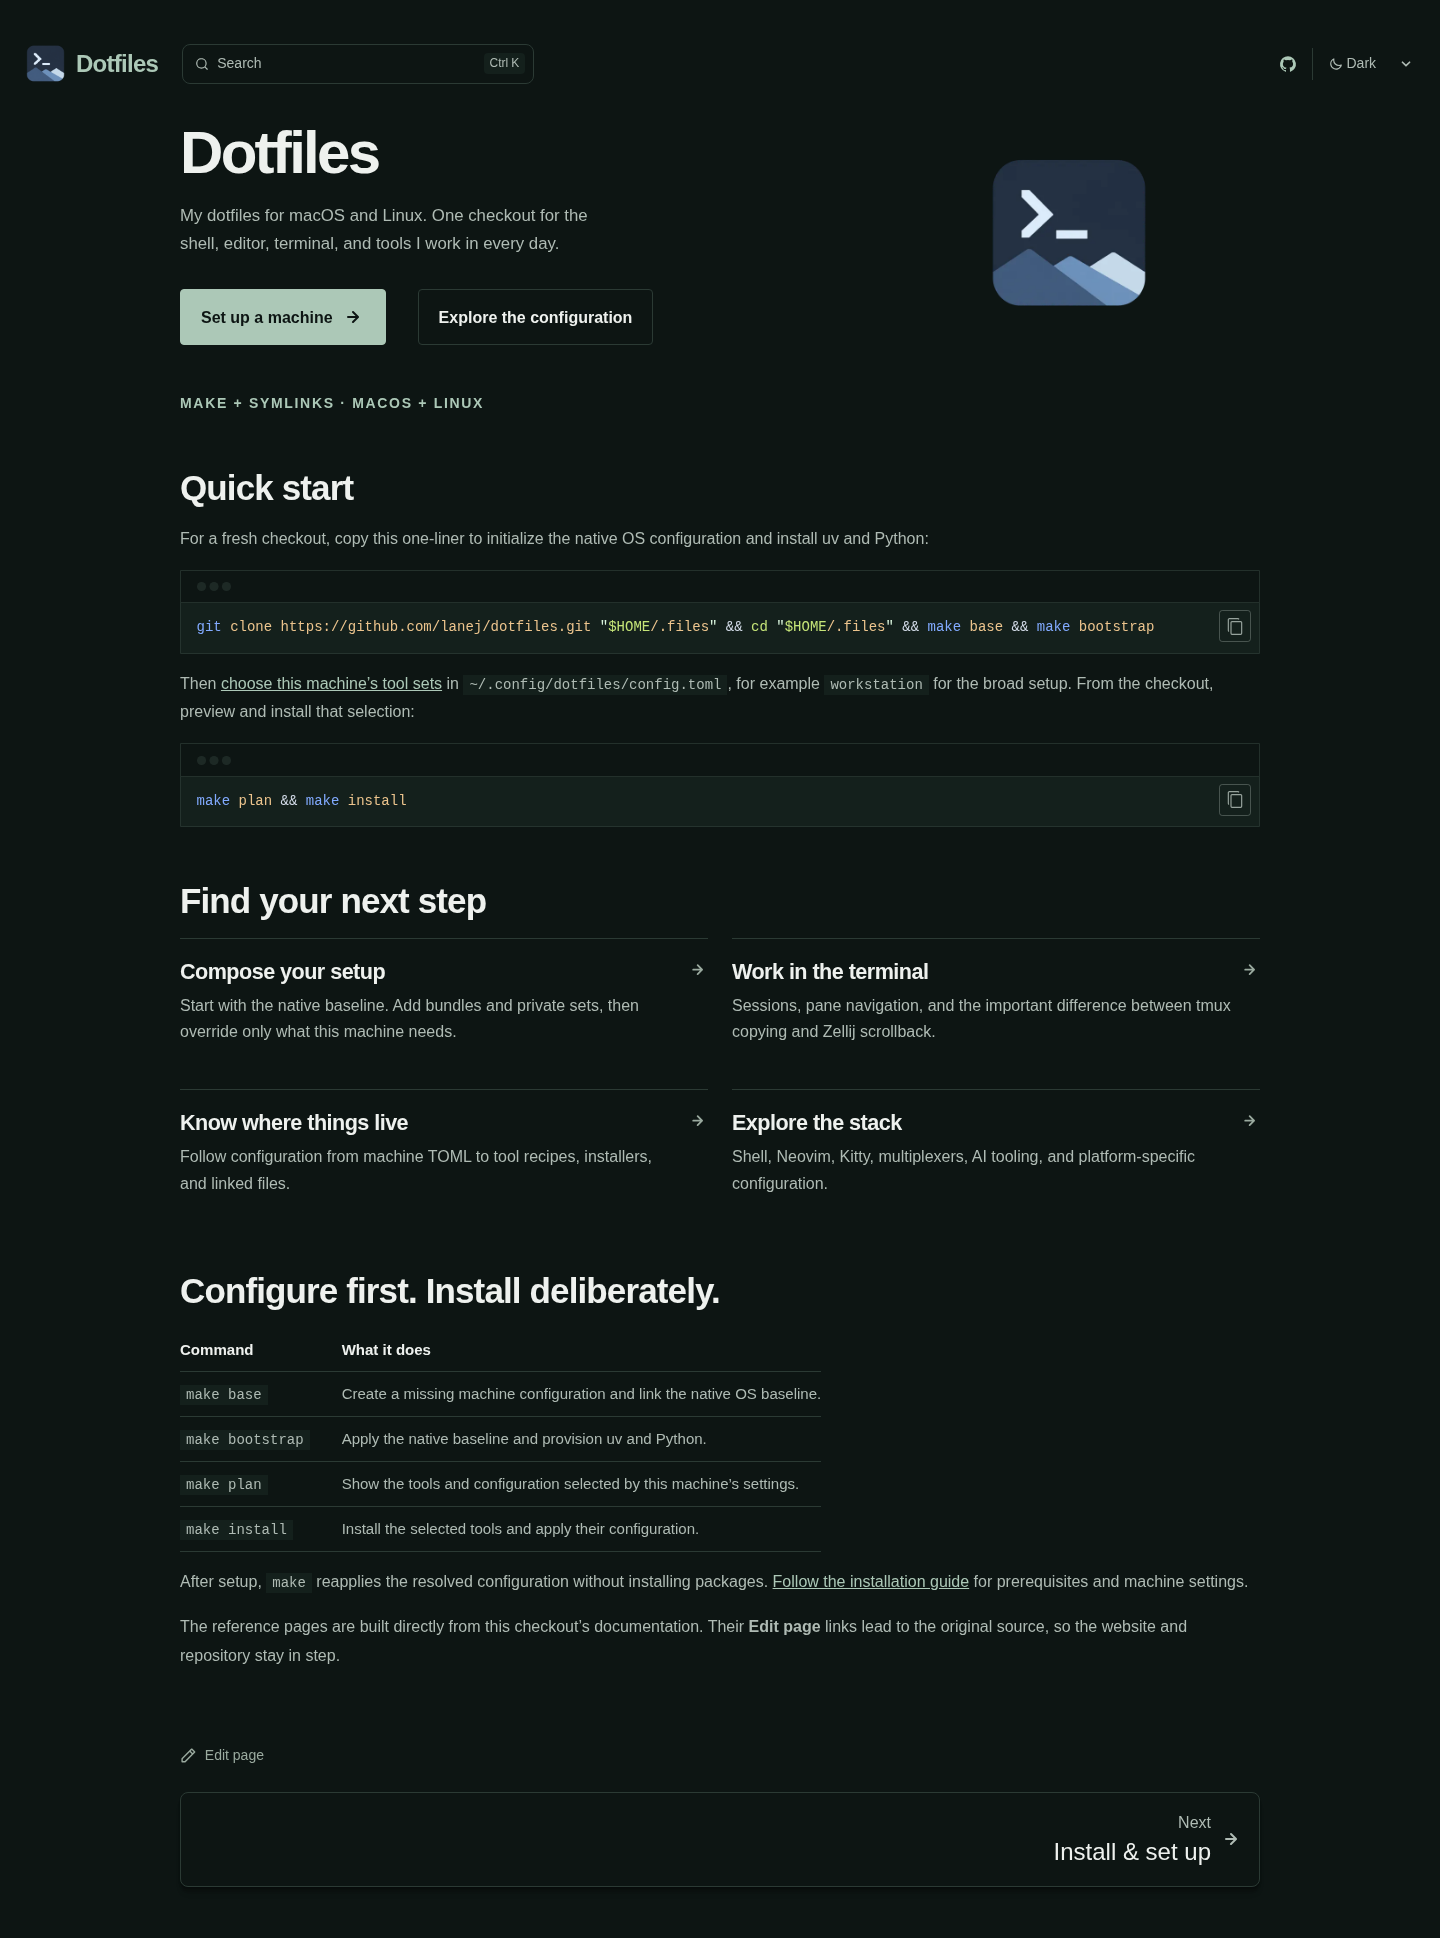
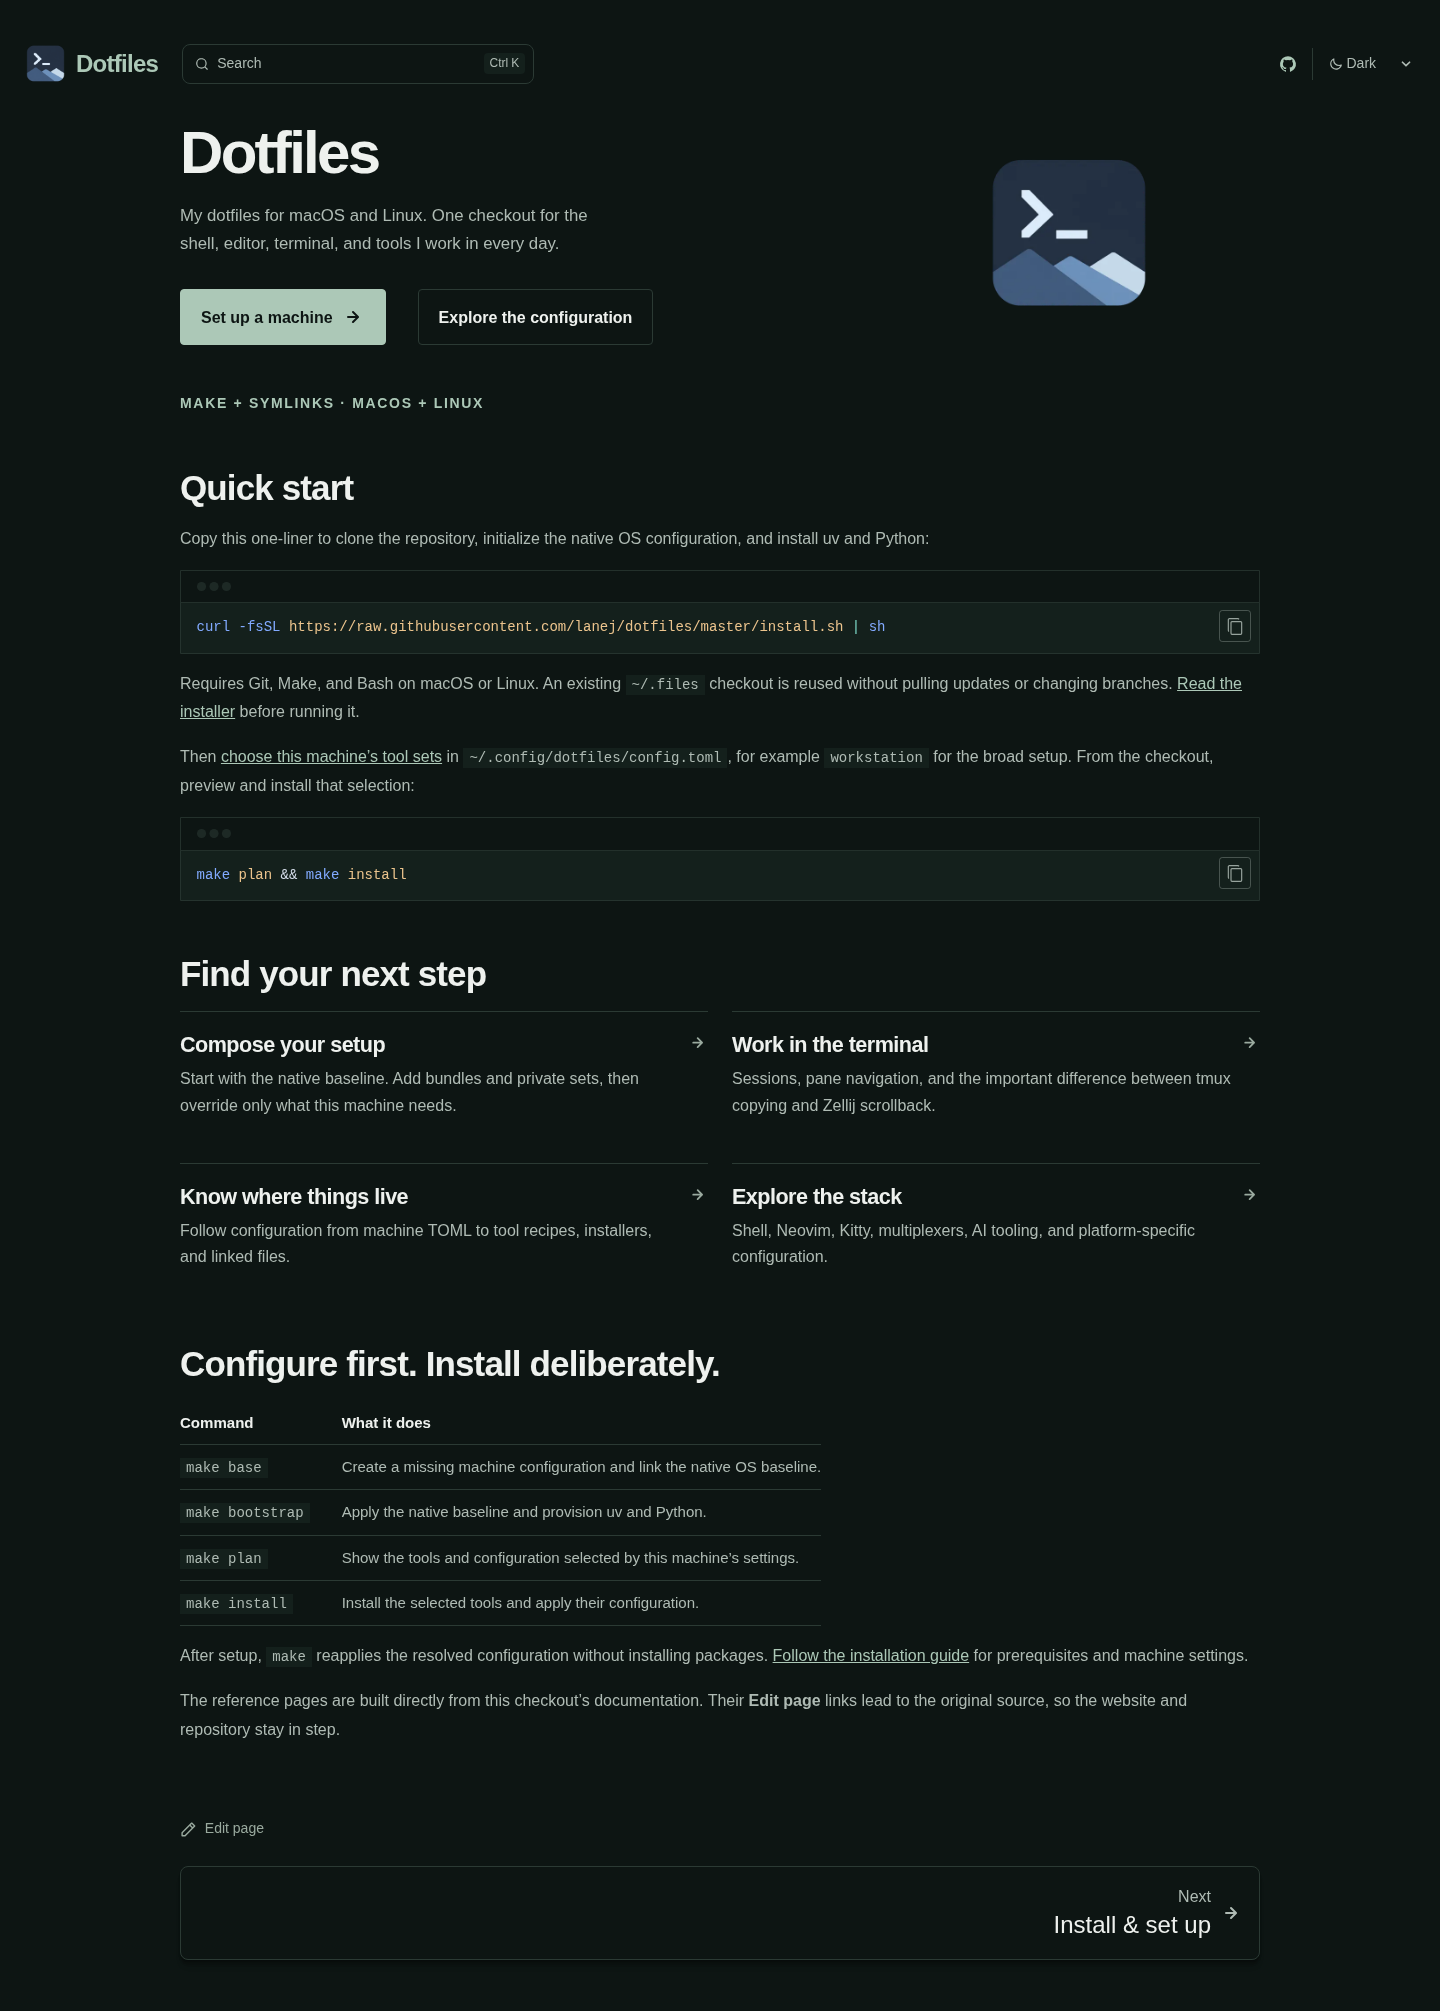
feat(setup): add a curl-to-shell bootstrap entrypoint

diff --git a/website/tests/docs.spec.ts b/website/tests/docs.spec.ts
@@ -4,7 +4,7 @@ test('copy setup instructions and find the Zellij workflow', async ({ page, cont
   await context.grantPermissions(['clipboard-read', 'clipboard-write']);
   await page.goto('/');
   await page.locator('.expressive-code').first().getByRole('button', { name: 'Copy to clipboard' }).click();
-  await expect.poll(() => page.evaluate(() => navigator.clipboard.readText())).toBe('git clone https://github.com/lanej/dotfiles.git "$HOME/.files" && cd "$HOME/.files" && make base && make bootstrap');
+  await expect.poll(() => page.evaluate(() => navigator.clipboard.readText())).toBe('curl -fsSL https://raw.githubusercontent.com/lanej/dotfiles/master/install.sh | sh');
   await page.getByRole('link', { name: 'Know where things live' }).click();
   await expect(page.getByRole('heading', { name: 'How configuration fits together', exact: true })).toBeVisible();
   await expect(page.getByRole('link', { name: 'Edit page' })).toHaveAttribute('href', 'https://github.com/lanej/dotfiles/edit/master/docs/architecture.mdx');

diff --git a/scripts/test-install-entrypoint.py b/scripts/test-install-entrypoint.py
@@ -1,0 +1,130 @@
+#!/usr/bin/env python3
+"""Exercise curl | sh against real Git/Make, with package installation simulated."""
+from functools import partial
+from http.server import SimpleHTTPRequestHandler, ThreadingHTTPServer
+from pathlib import Path
+import os
+import shutil
+import subprocess
+import sys
+import tempfile
+import threading
+
+
+class QuietHandler(SimpleHTTPRequestHandler):
+    def log_message(self, *_args):
+        pass
+
+
+def main():
+    root = Path(__file__).resolve().parents[1]
+    with tempfile.TemporaryDirectory(prefix="dotfiles-entrypoint-") as temporary:
+        work = Path(temporary)
+        home = work / "home with spaces"
+        home.mkdir()
+        source = work / "repository"
+        source.mkdir()
+        (source / "bootstrap.sh").write_text("# Fixture: package installation is simulated.\n")
+        (source / "Makefile").write_text(
+            f'bootstrap:\n\t@"{sys.executable}" "$(CURDIR)/fixture.py"\n'
+        )
+        (source / "fixture.py").write_text('''from pathlib import Path
+import os
+import sys
+home = Path(os.environ["HOME"])
+with (home / "bootstrap-calls").open("a") as calls:
+    calls.write("bootstrap\\n")
+assert not sys.stdin.read(), "bootstrap consumed bytes from the installer pipe"
+if os.environ.get("FIXTURE_BOOTSTRAP_FAIL"):
+    raise SystemExit(1)
+config = home / ".config/dotfiles/config.toml"
+config.parent.mkdir(parents=True, exist_ok=True)
+if not config.exists():
+    config.write_text('sets = ["linux"]\\n')
+(home / "runtime-ready").touch()
+''')
+        environment = {
+            **os.environ,
+            "HOME": str(home),
+            "XDG_CONFIG_HOME": str(home / ".config"),
+            "GIT_CONFIG_GLOBAL": os.devnull,
+            "GIT_CONFIG_NOSYSTEM": "1",
+            # Use the real clone path without requiring GitHub or touching a real home.
+            "GIT_CONFIG_COUNT": "1",
+            "GIT_CONFIG_KEY_0": f"url.{source}.insteadOf",
+            "GIT_CONFIG_VALUE_0": "https://github.com/lanej/dotfiles.git",
+        }
+        environment.pop("DOTFILES_CONFIG", None)
+        subprocess.run(["git", "init", "-q", str(source)], env=environment, check=True)
+        subprocess.run(["git", "-C", str(source), "add", "."], env=environment, check=True)
+        subprocess.run(
+            ["git", "-C", str(source), "-c", "user.name=Fixture", "-c",
+             "user.email=fixture@example.invalid", "-c", "commit.gpgsign=false",
+             "commit", "-qm", "Installation fixture"], env=environment, check=True,
+        )
+        served = work / "http"
+        served.mkdir()
+        shutil.copyfile(root / "install.sh", served / "install.sh")
+        server = ThreadingHTTPServer(("127.0.0.1", 0), partial(QuietHandler, directory=str(served)))
+        thread = threading.Thread(target=server.serve_forever, daemon=True)
+        thread.start()
+
+        def install(extra=None):
+            curl = subprocess.Popen(
+                ["curl", "-fsSL", f"http://127.0.0.1:{server.server_port}/install.sh"],
+                stdout=subprocess.PIPE, stderr=subprocess.PIPE, env=environment,
+            )
+            result = subprocess.run(
+                ["sh"], stdin=curl.stdout, capture_output=True, text=True,
+                env={**environment, **(extra or {})},
+            )
+            curl.stdout.close()
+            error = curl.stderr.read().decode()
+            assert curl.wait() == 0, error
+            curl.stderr.close()
+            return result
+
+        try:
+            checkout = home / ".files"
+            checkout.mkdir()
+            occupied = checkout / "keep-me"
+            occupied.write_text("existing user files")
+            result = install()
+            assert result.returncode != 0 and "Refusing to replace" in result.stderr, result
+            assert occupied.read_text() == "existing user files"
+            assert not (home / "bootstrap-calls").exists()
+            # The user relocates the conflicting directory before retrying.
+            checkout.rename(home / "saved-files")
+            result = install()
+            assert result.returncode == 0, result.stderr
+            assert (home / "runtime-ready").exists()
+            config = home / ".config/dotfiles/config.toml"
+            assert config.read_text() == 'sets = ["linux"]\n'
+            selection = 'sets = ["shell", "personal"]\n# Keep this machine selection.\n'
+            config.write_text(selection)
+            (checkout / "local-edit").write_text("preserve me")
+            # A later upstream commit must not replace the existing checkout on rerun.
+            (source / "upstream-change").write_text("not pulled")
+            subprocess.run(["git", "-C", str(source), "add", "."], env=environment, check=True)
+            subprocess.run(["git", "-C", str(source), "-c", "user.name=Fixture", "-c",
+                            "user.email=fixture@example.invalid", "-c", "commit.gpgsign=false",
+                            "commit", "-qm", "Upstream change"], env=environment, check=True)
+            result = install({"FIXTURE_BOOTSTRAP_FAIL": "1"})
+            assert result.returncode != 0, result
+            assert "bootstrap complete" not in result.stdout.lower()
+            result = install()
+            assert result.returncode == 0, result.stderr
+            assert config.read_text() == selection
+            assert (checkout / "local-edit").read_text() == "preserve me"
+            assert not (checkout / "upstream-change").exists()
+            assert (home / "bootstrap-calls").read_text() == "bootstrap\n" * 3
+            assert "make install" in result.stdout
+        finally:
+            server.shutdown()
+            server.server_close()
+            thread.join()
+    print("PASS: curl | sh clones, bootstraps, preserves local state on retry, and reports failure. Package installation was simulated.")
+
+
+if __name__ == "__main__":
+    main()

diff --git a/README.md b/README.md
@@ -10,6 +10,8 @@ The Astro Starlight site in [`website/`](website/) renders the shared [documenta
 
 The [setup requirements](docs/setup-requirements.md) define the configuration and software installation boundaries and their acceptance criteria.
 
+For the copyable `curl | sh` entrypoint, use the [shared quick start](docs/index.mdx#quick-start). It clones or reuses `~/.files` and runs the existing minimal bootstrap. The same setup with each step explicit:
+
 ```sh
 $ git clone https://github.com/lanej/dotfiles.git ~/.files && cd ~/.files
 $ make base      # initialize the native baseline and its machine TOML
